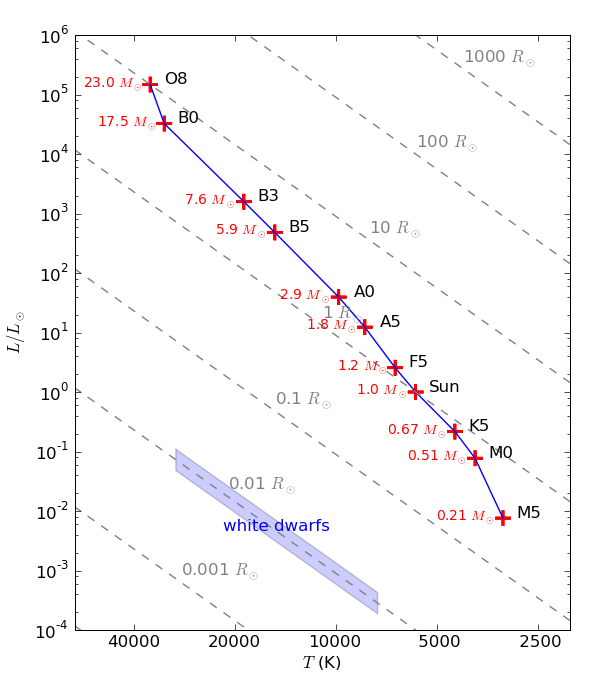
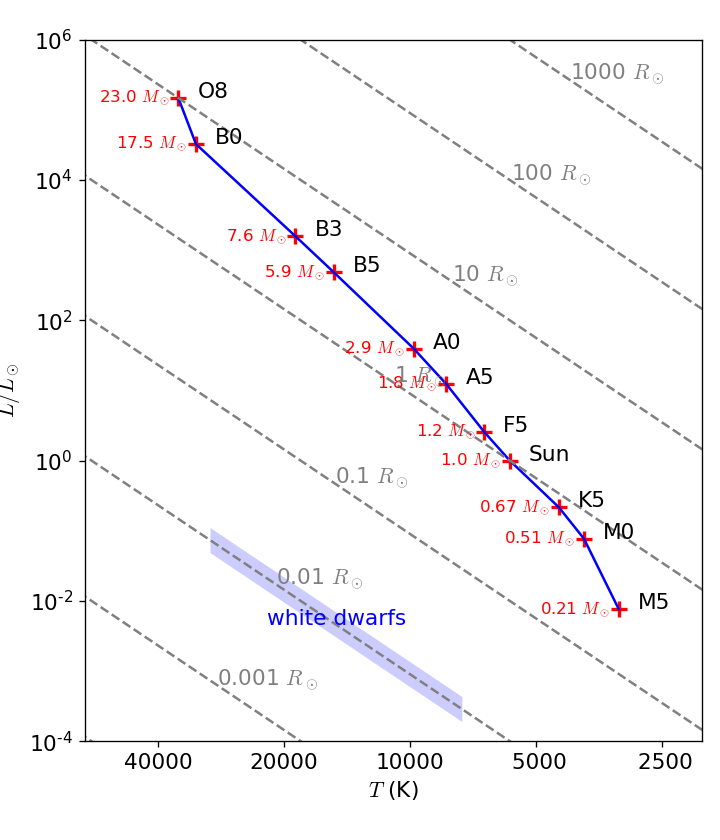
clean up

diff --git a/stars/HR_fig/HR_radius.py b/stars/HR_fig/HR_radius.py
@@ -7,9 +7,8 @@
 # M. Zingale (2010-12-13)
 
 
-import math
-import numpy
-import pylab
+import numpy as np
+import matplotlib.pyplot as plt
 
 def HR_radius():
 
@@ -36,16 +35,16 @@ def HR_radius():
     #-------------------------------------------------------------------------
     # main sequence data taken from Carroll & Ostlie, Appendix G
     nstars = 11
-    M = numpy.zeros(nstars, numpy.float64)
-    T = numpy.zeros(nstars, numpy.float64)
-    R = numpy.zeros(nstars, numpy.float64)
-    L = numpy.zeros(nstars, numpy.float64)
-    
+    M = np.zeros(nstars, np.float64)
+    T = np.zeros(nstars, np.float64)
+    R = np.zeros(nstars, np.float64)
+    L = np.zeros(nstars, np.float64)
+
     # spectral type
-    spectralTypes = ['O8', 'B0', 'B3', 'B5', 'A0', 'A5', 'F5', 'Sun', 'K5', 'M0', 'M5']
+    spectral_types = ['O8', 'B0', 'B3', 'B5', 'A0', 'A5', 'F5', 'Sun', 'K5', 'M0', 'M5']
 
     # mass (solar masses)
-    M[:] = [23, 17.5, 7.6, 5.9, 2.9, 1.8, 1.2, 1,  0.67, 0.51, 0.21]
+    M[:] = [23, 17.5, 7.6, 5.9, 2.9, 1.8, 1.2, 1, 0.67, 0.51, 0.21]
 
     # temperature (K)
     T[:] = [35800, 32500, 18800, 15200, 9800, 8190, 6650, T_sun, 4410, 3840, 3170]
@@ -59,109 +58,97 @@ def HR_radius():
     #-------------------------------------------------------------------------
 
 
-    ax = pylab.subplot(111)
+    ax = plt.subplot(111)
     ax.set_xscale('log')
     ax.set_yscale('log')
-    
+
     # draw and label the main sequence
-    pylab.scatter(T,L, s=100, marker="+", color="r", lw=2)
-    pylab.plot(T,L,'b-')
-    n = 0
-    while (n < len(spectralTypes)):
+    plt.scatter(T, L, s=100, marker="+", color="r", lw=2)
+    plt.plot(T, L, 'b-')
+    for mstar, tstar, lstar, spec_star in zip(M, T, L, spectral_types):
 
-        if (label_masses):
-            if (M[n] >= 1.0):
-                pylab.text(1.05*T[n], L[n], "%4.1f $M_\odot$" % (M[n]),fontsize=10,
-                           horizontalalignment="right", verticalalignment="center", color="r")
+        if label_masses:
+            if mstar >= 1.0:
+                plt.text(1.05*tstar, lstar, fr"{mstar:4.1f} $M_\odot$", fontsize=10,
+                         horizontalalignment="right", verticalalignment="center", color="r")
             else:
-                pylab.text(1.05*T[n], L[n], "%3.2f $M_\odot$" % (M[n]),fontsize=10, 
-                           horizontalalignment="right", verticalalignment="center", color="r")
+                plt.text(1.05*tstar, lstar, fr"{mstar:3.2f} $M_\odot$", fontsize=10,
+                         horizontalalignment="right", verticalalignment="center", color="r")
+
+        plt.text(0.9*tstar, lstar, spec_star)
 
 
-        pylab.text(0.9*T[n], L[n], spectralTypes[n])
-
-        n += 1
-    
-
-    if (draw_radii):
+    if draw_radii:
 
         # draw in lines of constant radius
         Rvals = [0.0001, 0.001, 0.01, 0.1, 1.0, 10.0, 100.0, 1000, 10000]
 
         nTpts = 25
-        dlogT = (math.log10(Tmax) - math.log10(Tmin))/(nTpts-1)
-        
-        Tplot = 10.0**(numpy.arange(nTpts)*dlogT + math.log10(Tmin))
-        
-        n = 0
-        while (n < len(Rvals)):
-    
+        dlogT = (np.log10(Tmax) - np.log10(Tmin))/(nTpts-1)
+
+        Tplot = 10.0**(np.arange(nTpts)*dlogT + np.log10(Tmin))
+
+        for n in range(len(Rvals)):
 
             # L/L_sun = (R/R_sun)**2 (T/T_sun)**4
             # compute L in L_sun units
             L = Rvals[n]**2 * (Tplot/T_sun)**4
 
-            pylab.plot(Tplot, L, linestyle='--', color="0.5")
-        
+            plt.plot(Tplot, L, linestyle='--', color="0.5")
+
             # draw in labels -- here we space the T position of the labels equally
-            # in log, by empericallly picking T = 40000 for L = 1.e-4 and 
+            # in log, by empericallly picking T = 40000 for L = 1.e-4 and
             # T = 3000 for L = 1.e4, and doing a line in log-space
-            slope = (math.log10(40000) - math.log10(3000))/(math.log10(1.e-4) - math.log10(1.e4))
-            xpos = math.log10(40000) + slope*(math.log10(Rvals[n]) - math.log10(1.e-4))
+            slope = (np.log10(40000) - np.log10(3000))/(np.log10(1.e-4) - np.log10(1.e4))
+            xpos = np.log10(40000) + slope*(np.log10(Rvals[n]) - np.log10(1.e-4))
             xpos = 10.0**xpos
 
             ypos = Rvals[n]**2 * (xpos/T_sun)**4
 
 
             if (xpos > Tmin and xpos < Tmax and ypos > Lmin and ypos < Lmax):
-                pylab.text(xpos, ypos, "%g $R_\odot$" % (Rvals[n]), color="0.5")
+                plt.text(xpos, ypos, fr"{Rvals[n]:g} $R_\odot$", color="0.5")
 
-            n += 1
-
-
-    if (draw_WDs):
+    if draw_WDs:
 
         # draw a box along the R = 0.01 R_sun line to indicate the approximate
         # position of the white dwarfs
         L3 = 0.01**2 * (30000./T_sun)**4
         L75 = 0.01**2 * (7500./T_sun)**4
-        pylab.fill([30000,30000, 7500, 7500], [1.5*L3, 0.66*L3, 0.66*L75, 1.5*L75], 
-                   alpha=0.20, facecolor="b")
+        plt.fill([30000, 30000, 7500, 7500], [1.5*L3, 0.66*L3, 0.66*L75, 1.5*L75],
+                 alpha=0.20, facecolor="b")
 
         L15 = 0.01**2 * (15000./T_sun)**4
-        pylab.text(15000, L15, "white dwarfs", color="b", horizontalalignment="center")
+        plt.text(15000, L15, "white dwarfs", color="b", horizontalalignment="center")
 
     # draw x-axis (temperature) labels in a few spots
     Tplot = [40000, 20000, 10000, 5000, 2500]
     Tlabels = []
-    n = 0
-    while (n < len(Tplot)):
+
+    for n in range(len(Tplot)):
         Tlabels.append("%5.0f" % (Tplot[n]))
-        n += 1
-    
-    locs, labels = pylab.xticks(Tplot, Tlabels)
+
+    locs, labels = plt.xticks(Tplot, Tlabels)
 
     # reverse the x-axis
-    pylab.axis([Tmin, Tmax, Lmin, Lmax])
-    ax = pylab.gca()
+    plt.axis([Tmin, Tmax, Lmin, Lmax])
+    ax = plt.gca()
     ax.set_xlim(ax.get_xlim()[::-1])
 
     # turn off minor ticks
-    minorLocator = pylab.NullLocator()
+    minorLocator = plt.NullLocator()
     ax.xaxis.set_minor_locator(minorLocator)
 
-    pylab.xlabel("$T$ (K)")
-    pylab.ylabel(r"$L/L_\odot$")
+    plt.xlabel("$T$ (K)")
+    plt.ylabel(r"$L/L_\odot$")
 
-    pylab.subplots_adjust(left=0.125,right=0.95,bottom=0.1,top=0.95)
+    plt.tight_layout()
 
-    f = pylab.gcf()
-    f.set_size_inches(6.0,7.0)
+    f = plt.gcf()
+    f.set_size_inches(6.0, 7.0)
 
-    pylab.savefig("HR_radius.png")
+    plt.savefig("HR_radius.png")
 
 
-
-if __name__== "__main__":
+if __name__ == "__main__":
     HR_radius()
-
